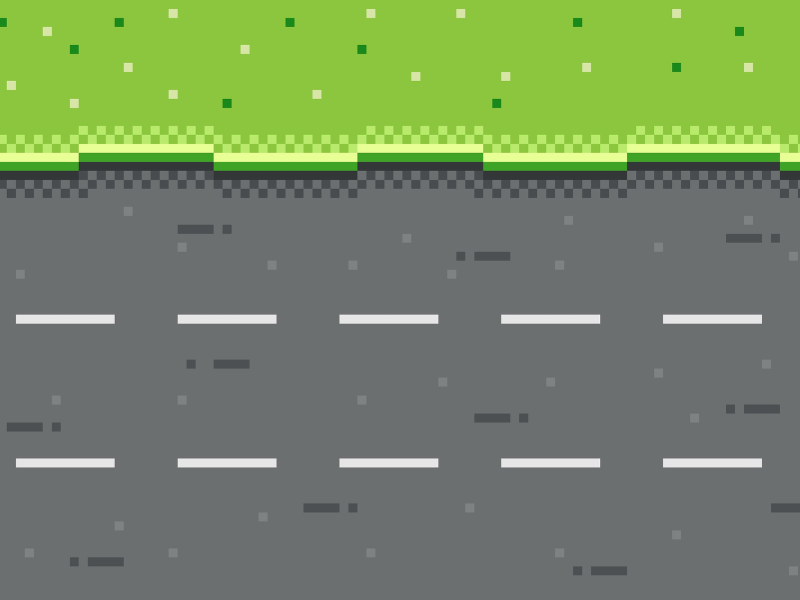
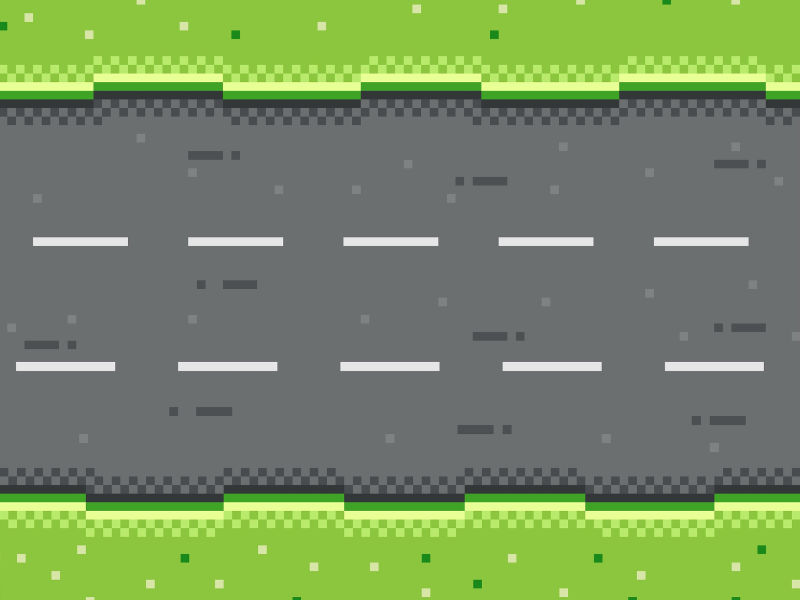
P3: Adjusted bg image and cars

diff --git a/js/Play.js b/js/Play.js
@@ -15,7 +15,7 @@ class Play extends Phaser.Scene {
         // Add physics-enabled sprite for avatar
         this.avatar = this.physics.add.sprite(300, 300, `avatar`);
         // Set the scale of the sprite
-        this.avatar.setScale(2);
+        this.avatar.setScale(2.2);
         // Call the method to create animations
         this.createAnimations();
         // Define cursors for keyboard input
@@ -70,7 +70,7 @@ class Play extends Phaser.Scene {
 
     addCars() {
         // Add the first car sprite moving from right to left
-        this.car1 = this.physics.add.sprite(this.game.config.width + 100, 240, `car`);
+        this.car1 = this.physics.add.sprite(this.game.config.width + 100, 170, `car`);
         this.car1.setScale(0.05);
 
         // Define the tween to move the first car from right to left
@@ -83,7 +83,7 @@ class Play extends Phaser.Scene {
         });
 
         // Add the second car sprite moving from left to right
-        this.car2 = this.physics.add.sprite(-100, 380, `car`);
+        this.car2 = this.physics.add.sprite(-100, 300, `car`);
         this.car2.setScale(0.05);
 
         // Define the tween to move the second car from left to right
@@ -95,20 +95,20 @@ class Play extends Phaser.Scene {
             repeat: -1
         });
         // Add the third car sprite moving from right to left
-        this.car3 = this.physics.add.sprite(this.game.config.width + 100, 520, `car`);
+        this.car3 = this.physics.add.sprite(this.game.config.width + 100, 430, `car`);
         this.car3.setScale(0.05);
 
         // Define the tween to move the third car from right to left
         this.tweens.add({
             targets: this.car3,
-            x: -100, 
+            x: -100,
             duration: 1700,
             ease: 'Linear',
-            repeat: -1 
+            repeat: -1
         });
 
         // Setup collider between avatar and cars
-        this.physics.add.collider(this.avatar, [this.car1, this.car2, this.car3, this.car4], this.handleCollision, null, this);
+        this.physics.add.collider(this.avatar, [this.car1, this.car2, this.car3], this.handleCollision, null, this);
     }
 
 
@@ -122,13 +122,13 @@ class Play extends Phaser.Scene {
     }
 
     addPedestrians() {
-        // Define the number of pedestrians you want to add
+        // Define the number of pedestrians
         const numPedestrians = 3;
 
         for (let i = 0; i < numPedestrians; i++) {
             // Generate random coordinates within the canvas boundaries
-            const x = Phaser.Math.Between(0, this.game.config.width);
-            const y = Phaser.Math.Between(0, this.game.config.height);
+            const x = Phaser.Math.Between(100, this.game.config.width);
+            const y = Phaser.Math.Between(100, this.game.config.height);
 
             // Add pedestrian sprite
             const pedestrian = this.add.sprite(x, y, 'pedestrian');
